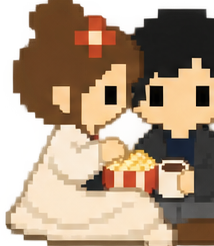
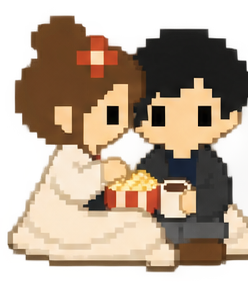
Re-crop sh-int-movie — the couch pose was clipped on all sides
Wider box (248x286) with margin so Sylvia's hair, Harry's mug and the
blanket edge aren't cut. Aspect updated to match.

diff --git a/components/village/scene/shapes.tsx b/components/village/scene/shapes.tsx
@@ -808,7 +808,7 @@ const COUPLE_INTERACT_FRAMES = [
   // scenes).
   { src: '/village-assets/sh-int-bench.png', aspect: 346 / 323 },       // 15
   { src: '/village-assets/sh-int-picnic.png', aspect: 372 / 214 },      // 16
-  { src: '/village-assets/sh-int-movie.png', aspect: 214 / 246 },       // 17
+  { src: '/village-assets/sh-int-movie.png', aspect: 248 / 286 },       // 17
   { src: '/village-assets/couple-nightcap.png', aspect: 342 / 306 },    // 18
 ]
 /** How many leading frames are eligible for a random meet (the rest are
